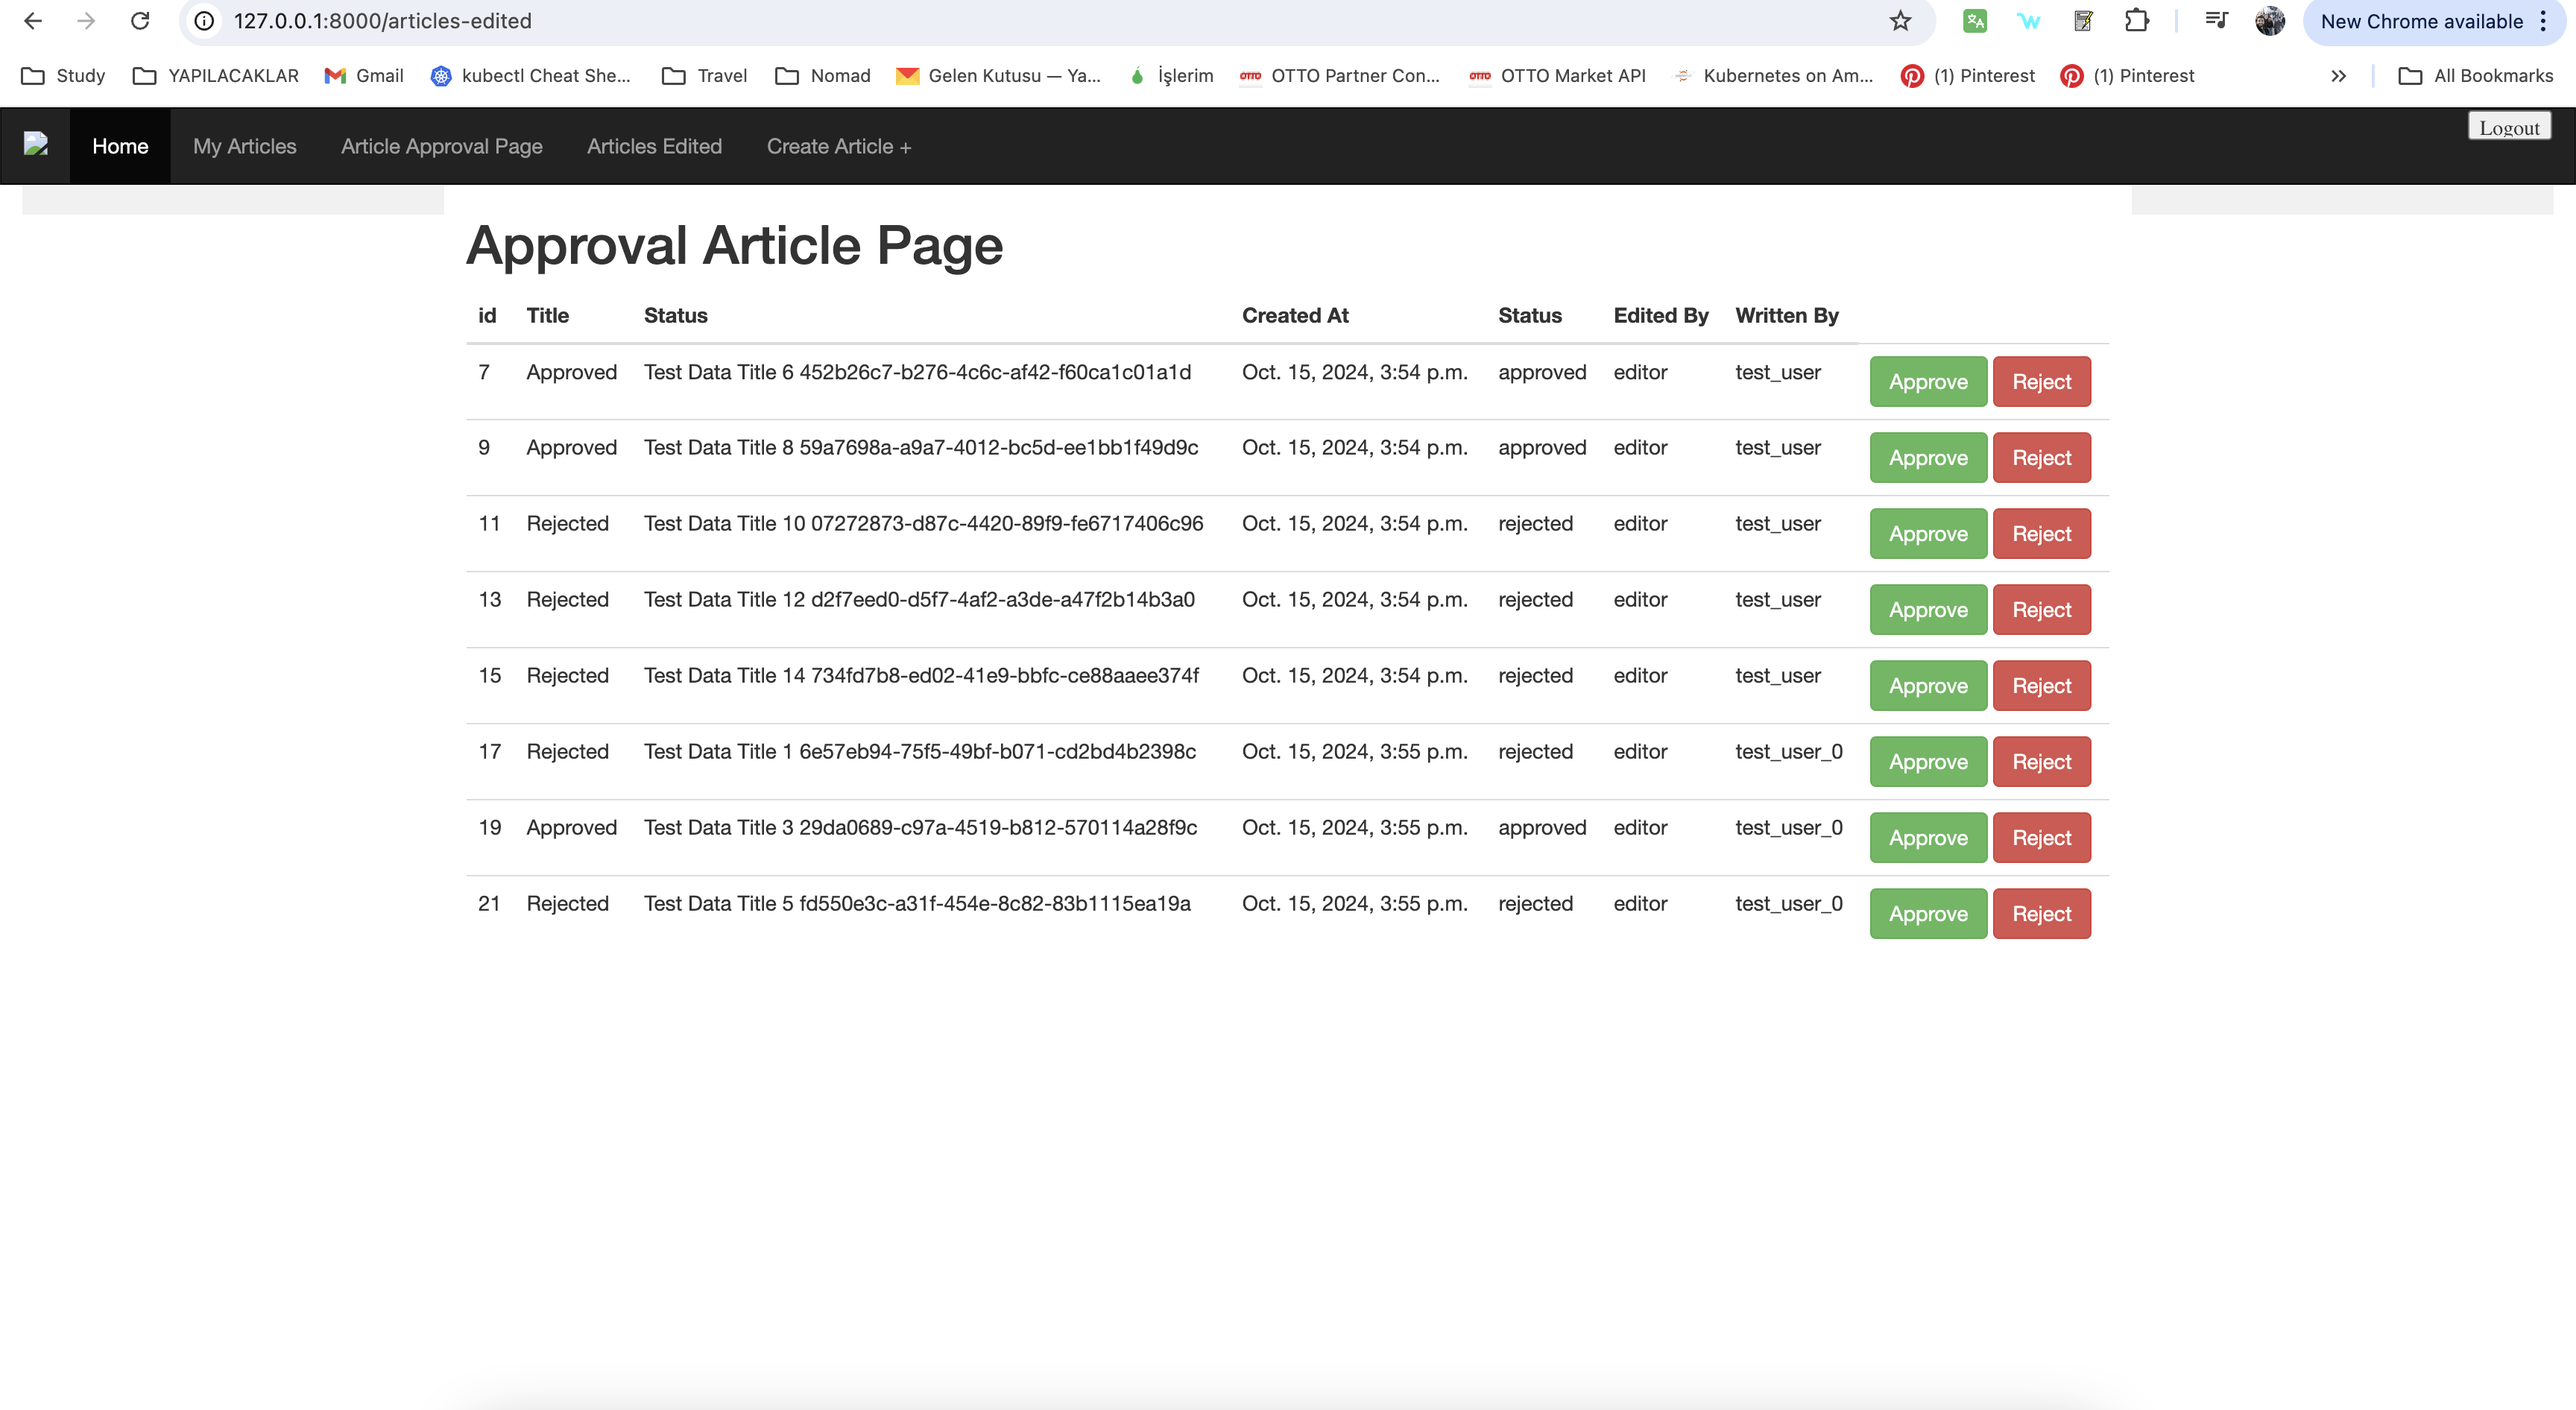
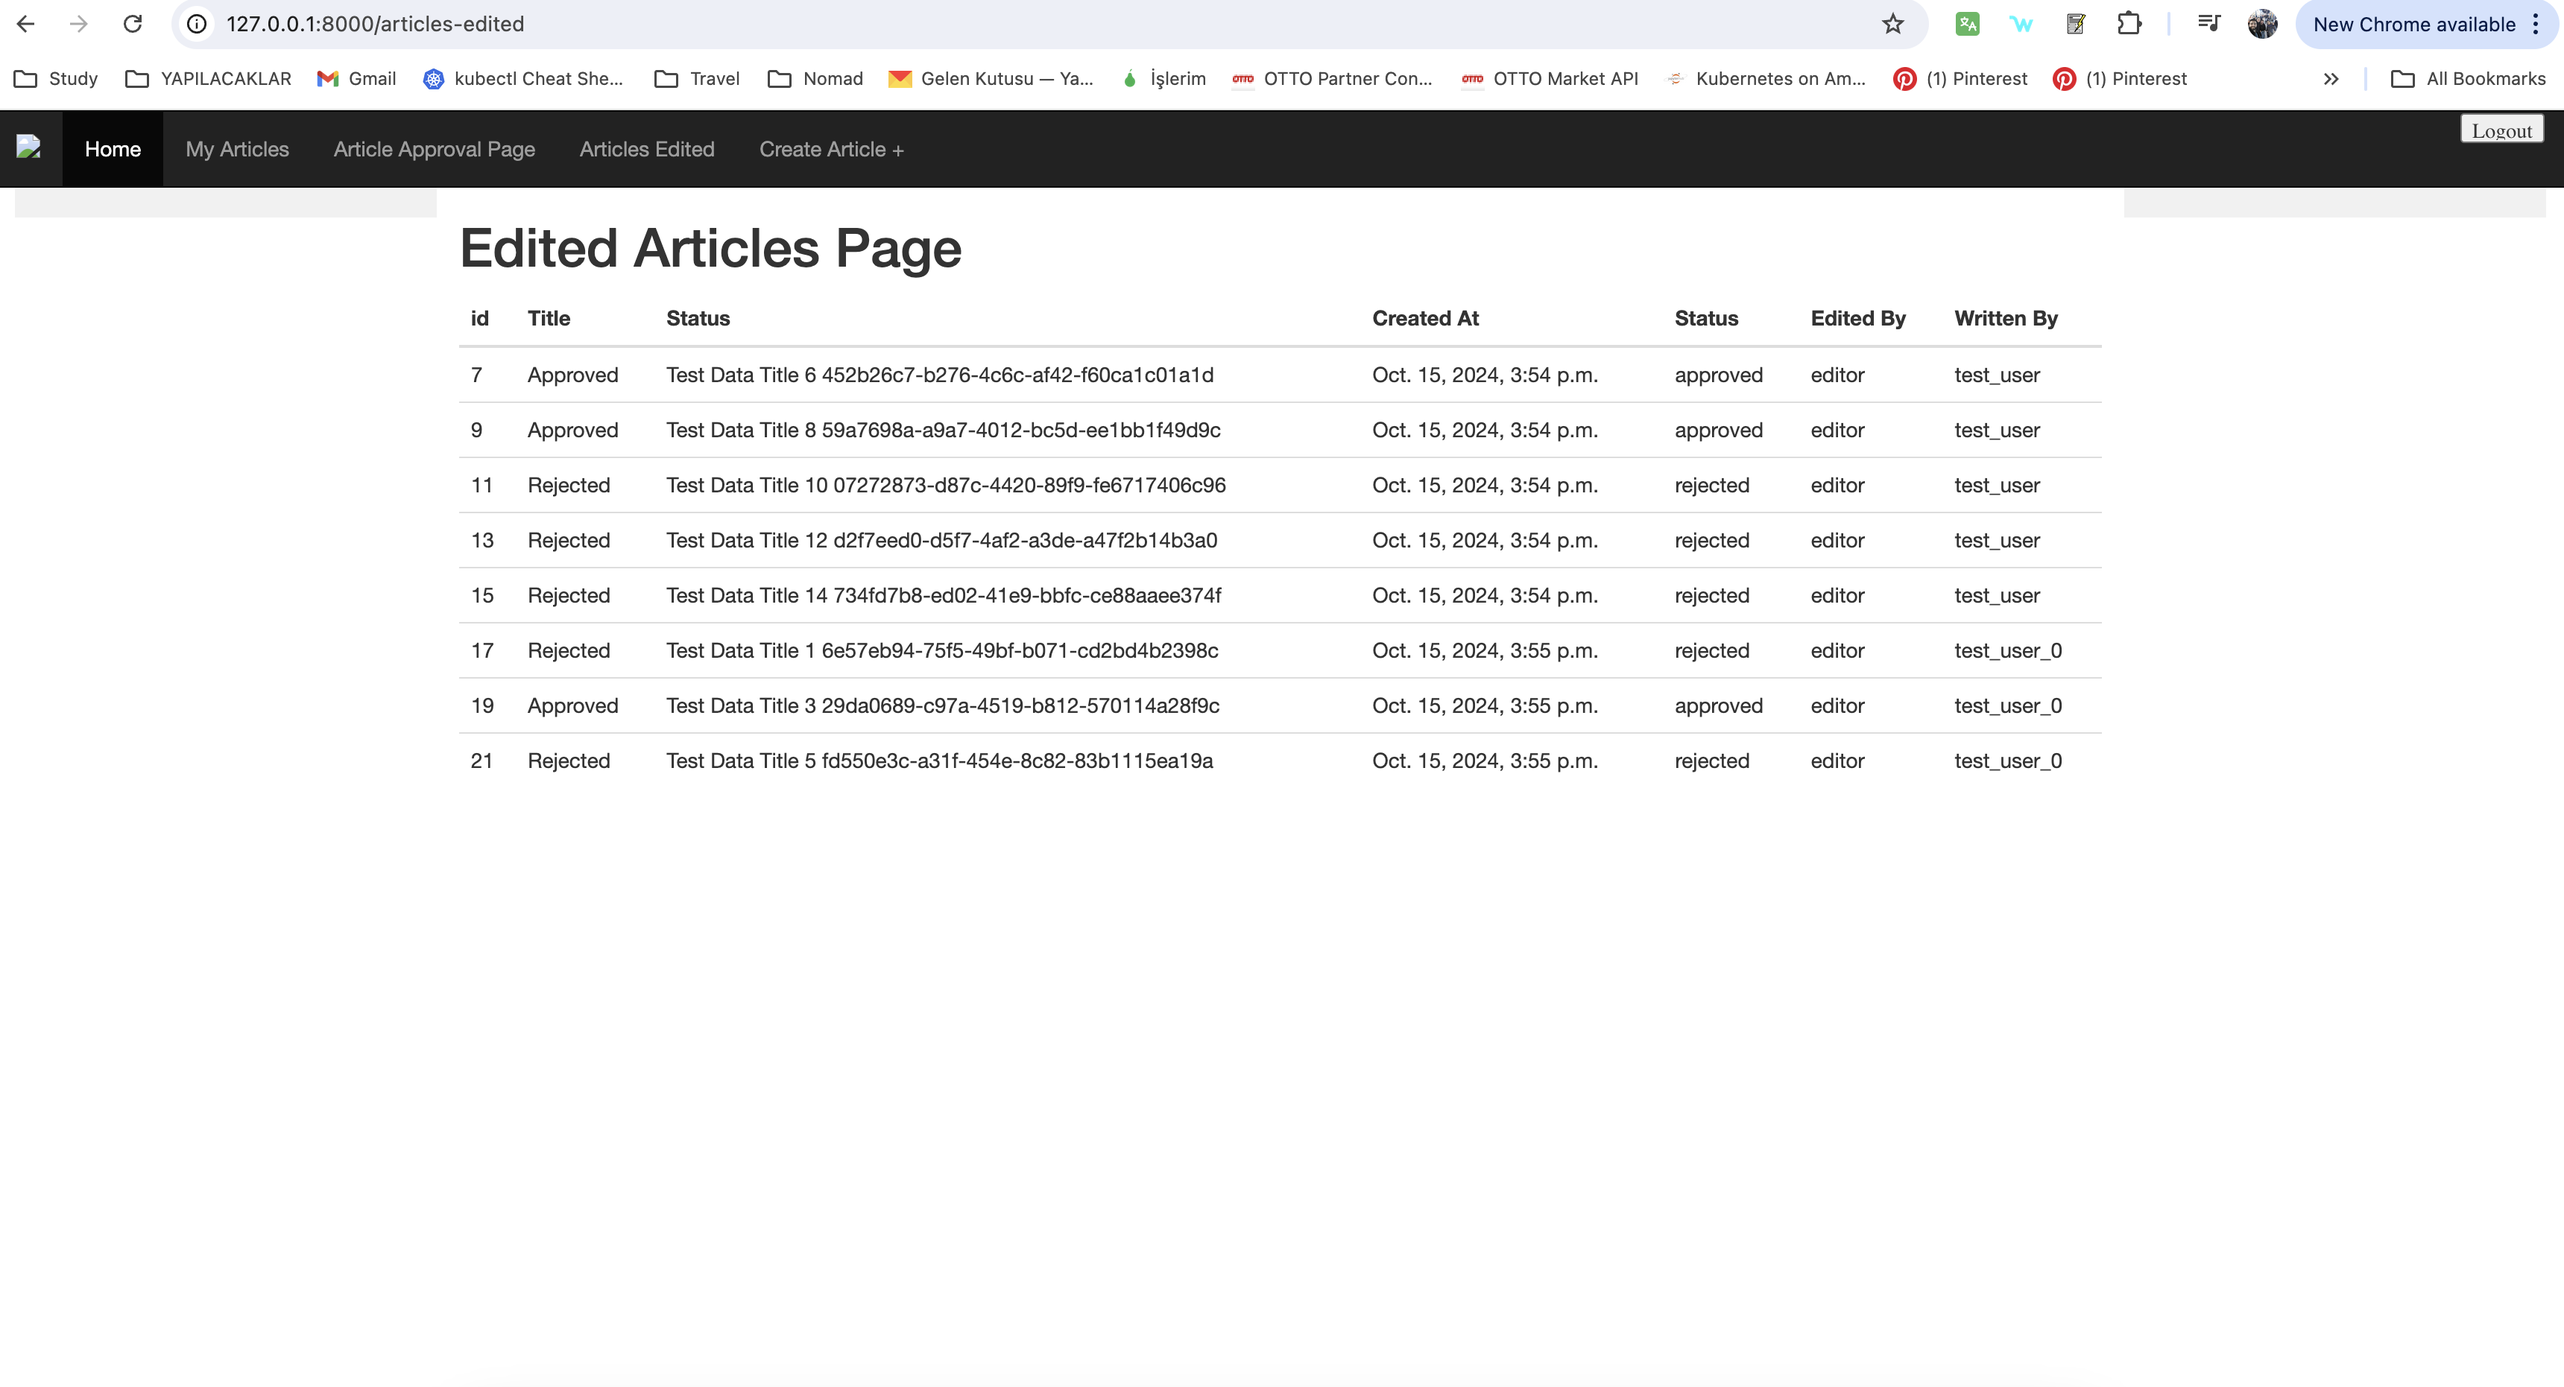
fix wrong page ss

diff --git a/templates/article/edited.html b/templates/article/edited.html
@@ -2,7 +2,7 @@
 {% block container %}
 <div class="col-sm-2 sidenav"></div>
 <div class="col-sm-8 text-left">
-  <h1>Approval Article Page</h1>
+  <h1>Edited Articles Page</h1>
   <table class="table">
     <thead>
       <tr>
@@ -25,13 +25,6 @@
         <td>{{ article.status }}</td>
         <td>{{ article.edited_by }}</td>
         <td>{{ article.written_by }}</td>
-        <td>
-            <form action="{% url 'article-approval' pk=article.pk %}" method="post">
-                {% csrf_token %}
-                <button name="approve" class="btn btn-success">Approve</button>
-                <button name="reject" class="btn btn-danger">Reject</button>
-            </form>
-        </td>
       </tr>
       {% empty %}
       <tr>

diff --git a/templates/article/approval.html b/templates/article/approval.html
@@ -20,6 +20,13 @@
         <td>{{ article.get_status_display }}</td>
         <td>{{ article.title }}</td>
         <td>{{ article.created_at }}</td>
+        <td>
+            <form action="{% url 'article-approval' pk=article.pk %}" method="post">
+                {% csrf_token %}
+                <button name="approve" class="btn btn-success">Approve</button>
+                <button name="reject" class="btn btn-danger">Reject</button>
+            </form>
+        </td>
       </tr>
       {% empty %}
       <tr>
